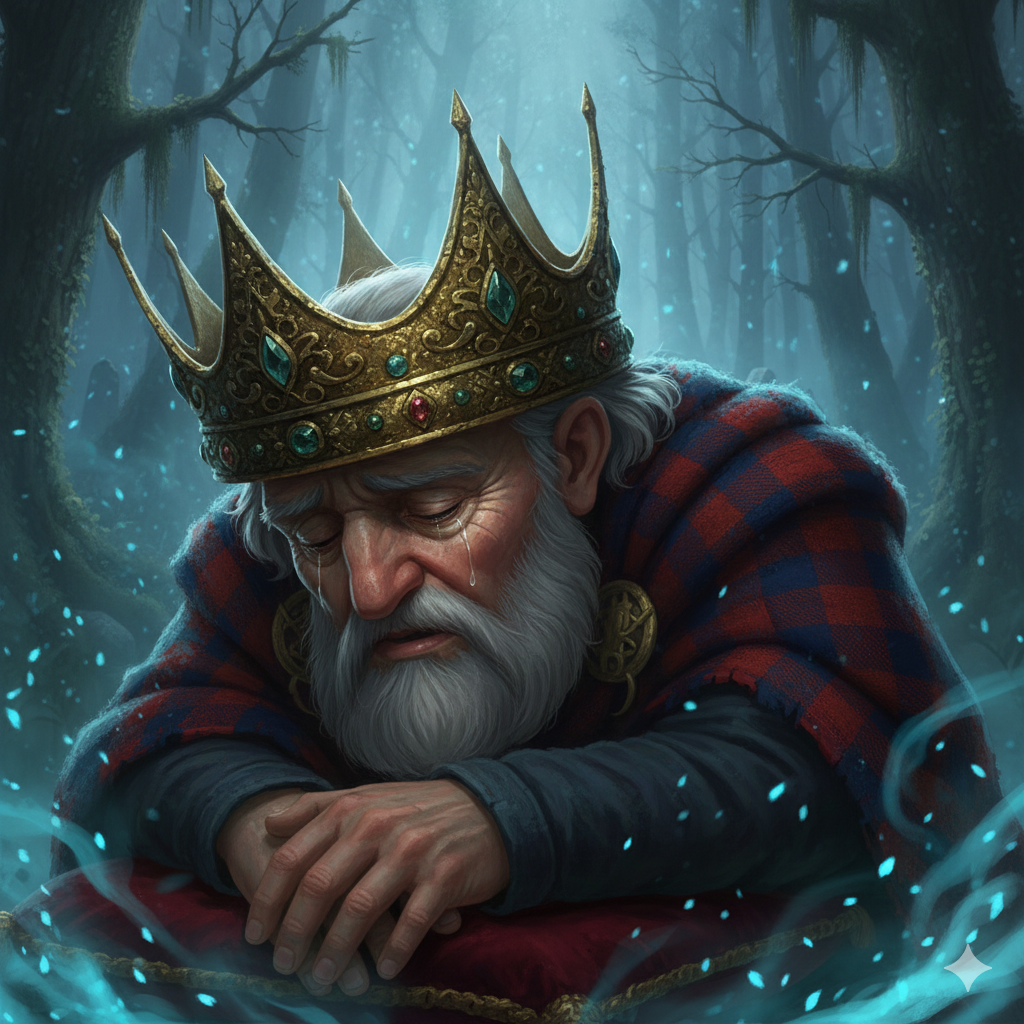
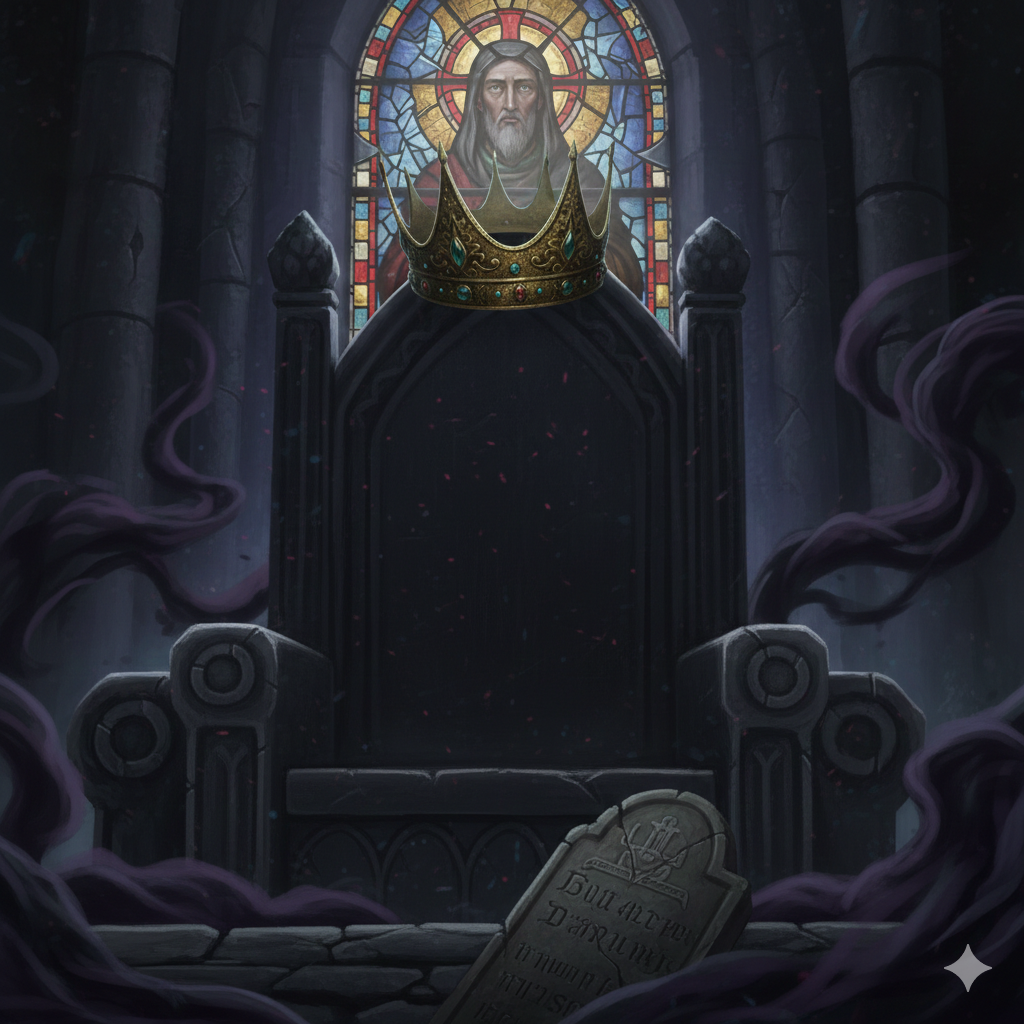
Forum correcao cards

diff --git a/styles.css b/styles.css
@@ -1422,9 +1422,13 @@ body {
   transform: rotateY(180deg);
 }
 
-/* No mobile, a frente por vezes continua visível por cima do verso; escondê-la de forma explícita */
+/* No mobile, a frente por vezes continua visível por cima do verso; escondê-la só após a rotação acabar */
+.forum-card-front {
+  transition: visibility 0s linear;
+}
 .forum-card-flipped .forum-card-front {
   visibility: hidden;
+  transition-delay: 0.6s;
   pointer-events: none;
 }
 
